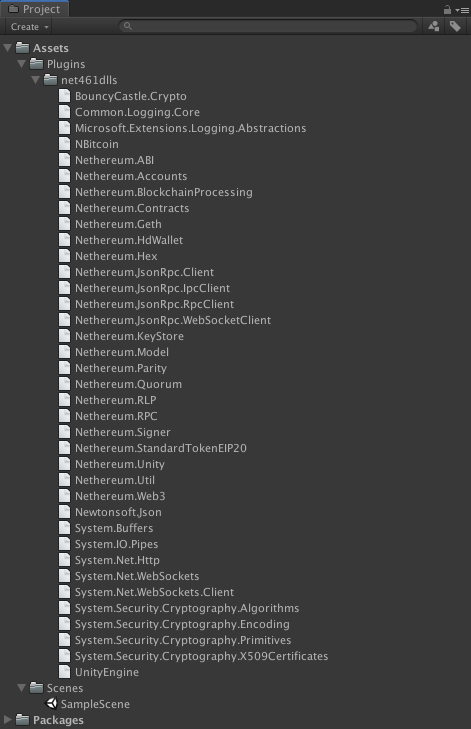
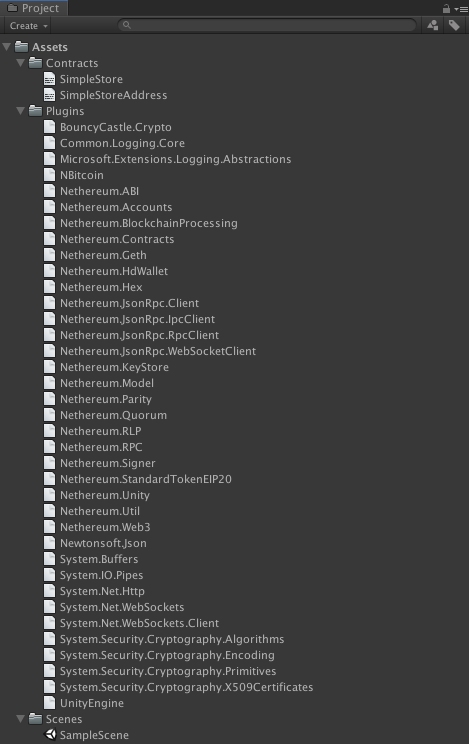
update post

Changed region(s): [[0.0, 0.0, 0.6866, 0.9959], [0.2687, 0.0, 0.8955, 0.0302], [0.8955, 0.0, 1.0, 0.0604]]

diff --git a/_drafts/2020-01-07-dapp-with-unity.md b/_drafts/2020-01-07-dapp-with-unity.md
@@ -103,7 +103,6 @@ tại `truffle-config.js` ta sẽ config tất cả những thông tin về chai
 
 ```js
 module.exports = {
-  contracts_build_directory: '../game/Assets/Contracts',
   networks: {
     development: {
       host: '127.0.0.1',
@@ -113,8 +112,6 @@ module.exports = {
   }
 };
 ```
-
-Ta sẽ build contracts vào luôn một thư mục bên trong thư mục game, để chút nữa ta có thể sử dụng nó trong Cocos.
 
 Với chain, để đơn giản nhất ta sẽ sử dụng một local chain, chạy bởi `ganache-cli`.
 
@@ -255,31 +252,72 @@ Summary
 > Final cost:          0.00860274 ETH
 ```
 
+### Extract contract ABI
+
+Việc tạo script đọc và xử lý file `json` với Csharp khá dài nên mình sẽ viết một script js tách luôn ABI và địa chỉ của contract ra một file riêng, để chút nữa trong game ta không phải viết thêm xử lý chỉ việc kéo thả vào trong Unity mà thôi. Easy!
+
+Tạo thư mục `scripts`, bên trong ta tạo một file `extract_abi.js` với nội dung sau:
+
+```js
+const fs = require('fs');
+const path = require('path');
+const contracts = path.resolve(__dirname, '../build/contracts/');
+const unityAbis = path.resolve(__dirname, '../../game/Assets/Contracts/');
+
+module.exports = function() {
+  let builtContracts = fs.readdirSync(contracts);
+  builtContracts.forEach(contract => {
+    if (contract === 'Migrations.json' || contract === 'SafeMath.json') return;
+    console.log('extracting contract ', contract);
+    const name = contract.split('.')[0];
+    let json = JSON.parse(fs.readFileSync(path.resolve(contracts, contract)));
+    let { abi, networks } = json;
+    if (!Object.keys(networks).length) return;
+    fs.writeFileSync(path.resolve(unityAbis, contract), JSON.stringify(json.abi));
+    fs.writeFileSync(path.resolve(unityAbis, name + 'Address.txt'), networks['123456789'].address);
+  });
+};
+```
+
+Bên game, trong thư mục `game/Assets` ta sẽ tạo một thư mục `Contracts`, sau đó quay lại bên contract và chạy lệnh:
+
+```sh
+truffle exec scripts/extract_abi.js
+```
+
+Khi này nó sẽ sinh ra cho chúng ta thư mục Contracts 2 file: `SimpleStore` chứa contract ABI và `SimpleStoreAddress` chứa contract address.
+
+![built-contract]({{ site.url }}/assets/images/dapp-with-unity/built-contract.png)
+
 OK vậy là xong phần contract.
 
 ## Game Development
 
 Hãy mở Unity và chọn project `game` mà chúng ta vừa tạo.
 
+### Project Settings
+
+Vì ta làm ứng dụng mobile, nên việc đầu tiên là ta sẽ switch project sang `Android`.
+
 Chọn `File/Build Settings...`, tại cửa sổ build setting, ta chọn `Android` và nhấn `Switch Platform`.
 
 ![android-switch-platform]({{ site.url }}/assets/images/dapp-with-unity/android-switch-platform.png)
 
-### Project Settings
+Tiếp tục chọn `Player Settings...`, đảm bảo `Scripting Runtime Version` là `.Net 4.x Equivalent`, và `Api Compatibility Level` là `.Net 4.x`
 
-Vì ta làm ứng dụng mobile, nên việc đầu tiên là ta sẽ switch project sang `Android`.
+![scripting-backend]({{ site.url }}/assets/images/dapp-with-unity/scripting-backend.png)
 
 ### Scene
 
 Mở đầu chúng ta sẽ có một scene `SampleScene` chưa có gì ngoài `MainCamera` và `Event System` cả.
 
-Ta lần lượt sẽ tạo các `Text` cho Value, Address, Balance, một `InputField` cho giá trị nhập vào, và một `Button` để set giá trị cho value.
+Ta lần lượt sẽ tạo các `Text` cho Value, Address, Balance, một `InputField` cho giá trị nhập vào, và một `Button` để set giá trị cho value. Thêm chút màu sắc nếu cần.
 
-Scene sẽ trở thành như sau:
+Scene sẽ trông như sau:
 
 ![scene-edited]({{ site.url }}/assets/images/dapp-with-unity/scene-edited.png)
 
-### Script
+### Nethereum Plugin
 
 Để kết nối với blockchain từ Unity, ta sẽ sử dụng một thư viện của Csharp có tên gọi [Nethereum](https://github.com/Nethereum/Nethereum).
 
@@ -287,10 +325,227 @@ Scene sẽ trở thành như sau:
 
 Download Nethereum tại đây: [https://github.com/Nethereum/Nethereum/releases](https://github.com/Nethereum/Nethereum/releases)
 
+Đọc thêm Documentations tại đây: [https://nethereum.readthedocs.io/en/latest/unity3d-introduction/](https://nethereum.readthedocs.io/en/latest/unity3d-introduction/)
+
 Nethereum có 2 phiên bản: Net461 sử dụng cho các hệ thống .Net 4x trở lên, và Net351 sử dụng cho các hệ thống .Net thấp hơn.
 
 Các phiên bản Unity trước đây sử dụng .Net3.5, nhưng gần đây đã nâng cấp lên sử dụng cả 4.x và 3.5, và trong tương lai sẽ bỏ hoàn toàn phiên bản 3.5, nên chúng ta luôn nên sử dụng các phiên bản 4.x trở lên. Trong bài này cũng vậy, chúng ta sẽ sử dụng phiên bản `Net461`.
 
-Ta sẽ tạo thư mục `Plugins` trong thư mục `game/Assets` và giải nén tại đây
+Ta sẽ tạo thư mục `Plugins` trong thư mục `game/Assets` và giải nén thư viện đã download về tại đây.
 
 ![nethereum-plugins]({{ site.url }}/assets/images/dapp-with-unity/nethereum-plugins.png)
+
+_Note: Nếu gặp các lỗi liên quan đến `Library/PackageCache/` thì hãy mạnh dạn tắt đi khởi động lại Unity_.
+
+### Scripts
+
+Tạo thư mục `Scripts`, bên trong tạo một script `SimpleStore.cs` với nội dung như sau:
+
+```csharp
+using System;
+using System.Numerics;
+using System.Collections;
+using System.Collections.Generic;
+using System.Threading.Tasks;
+
+using UnityEngine;
+using UnityEngine.UI;
+
+using Nethereum.Web3;
+using Nethereum.Web3.Accounts;
+using Nethereum.Contracts;
+using Nethereum.ABI.FunctionEncoding.Attributes;
+using Nethereum.Signer;
+using Nethereum.Hex.HexTypes;
+
+public class SimpleStore : MonoBehaviour
+{
+
+    [Header("Deployed contract")]
+    public TextAsset contractABI;
+    public TextAsset contractAddress;
+
+    public Text currentValueText;
+    public Text addressText;
+    public Text balanceText;
+    public InputField inputValue;
+
+    private HexBigInteger ethBalance;
+    private Web3 web3;
+    private Account account;
+    private string privateKey;
+    private string from;
+    private Contract contract;
+
+    private HexBigInteger gas = new HexBigInteger(900000);
+
+    private Function getFunction;
+    private Function setFunction;
+
+    void Start()
+    {
+        AccountSetup();
+    }
+
+    public void AccountSetup()
+    {
+        var url = "http://localhost:8545";
[1 lines of base64/hex data omitted]
+        account = new Account(privateKey);
+        from = account.Address;
+        web3 = new Web3(account, url);
+        StartCoroutine(StatusInterval());
+        GetContract();
+    }
+
+    IEnumerator StatusInterval()
+    {
+        while (true)
+        {
+            UpdateStatus();
+            yield return new WaitForSeconds(1f);
+        }
+    }
+
+    public async Task UpdateStatus()
+    {
+        uint newValFromContract = await GetValue();
+        currentValueText.text = "" + newValFromContract;
+        var newBalance = await web3.Eth.GetBalance.SendRequestAsync(from);
+        ethBalance = newBalance;
+        decimal ethBalanceVal = Web3.Convert.FromWei(ethBalance.Value);
+        addressText.text = from;
+        balanceText.text = string.Format("{0:0.00} ETH", ethBalanceVal);
+    }
+
+    public void OnSetValue()
+    {
+        var newValue = inputValue.text;
+        try
+        {
+            int intValue = Int32.Parse(newValue);
+            SetValue(intValue);
+        }
+        catch (FormatException)
+        {
+            Debug.LogError("Unable to parse input!");
+        }
+    }
+
+    void GetContract()
+    {
+        string abi = contractABI.ToString();
+        string address = contractAddress.ToString();
+        contract = web3.Eth.GetContract(abi, address);
+
+        getFunction = contract.GetFunction("get");
+        setFunction = contract.GetFunction("set");
+    }
+
+    public async Task<uint> GetValue()
+    {
+        var value = await getFunction.CallAsync<uint>();
+        return value;
+    }
+
+    public async Task<string> SetValue(int value)
+    {
+        var receipt = await setFunction.SendTransactionAndWaitForReceiptAsync(from, gas, new HexBigInteger(0), null, value);
+        Debug.LogFormat("tx: {0}", receipt.TransactionHash);
+        return receipt.TransactionHash;
+    }
+}
+```
+
+#### Giải thích
+
+- đầu tiên ta sẽ khai báo các Text, InputField và Button mà ta đã tạo ra ở bên trên, ở đây đáng chú ý là ta sẽ có 2 biến `TextAsset`, dùng để lưu trữ chính ABI và contract address mà ta đã tạo ra từ trước.
+
+```csharp
+public TextAsset contractABI;
+public TextAsset contractAddress;
+
+public Text currentValueText;
+public Text addressText;
+public Text balanceText;
+public InputField inputValue;
+```
+
+- ở bài viết này, chúng ta sẽ sử dụng trực tiếp account đầu tiên sinh ra bởi `ganache-cli`. Trên thực tế, chúng ta nên làm thêm chức năng sinh private-key mới cho người dùng, hoặc cho phép người dùng nhập vào mnemonic hay private để import account đã có của họ.
+
+```csharp
+public void AccountSetup()
+{
+    var url = "http://localhost:8545";
[1 lines of base64/hex data omitted]
+    account = new Account(privateKey);
+    from = account.Address;
+    web3 = new Web3(account, url);
+    StartCoroutine(StatusInterval());
+    GetContract();
+}
+```
+
+- sau đó cứ mỗi giây, chúng ta lại update lại trạng thái của ứng dụng, như `value` hay `balance` của account.
+
+```csharp
+public async Task UpdateStatus()
+{
+    uint newValFromContract = await GetValue();
+    currentValueText.text = "" + newValFromContract;
+    var newBalance = await web3.Eth.GetBalance.SendRequestAsync(from);
+    ethBalance = newBalance;
+    decimal ethBalanceVal = Web3.Convert.FromWei(ethBalance.Value);
+    addressText.text = from;
+    balanceText.text = string.Format("{0:0.00} ETH", ethBalanceVal);
+}
+```
+
+- phần định nghĩa contract, ta sẽ sử dụng ABI và contract address để tạo ra contract instance, đồng thời implement các hàm `GetValue` và `SetValue` tương ứng với các hàm `get` và `set` trong `SimpleStore.sol` contract
+
+```csharp
+void GetContract()
+{
+    string abi = contractABI.ToString();
+    string address = contractAddress.ToString();
+    contract = web3.Eth.GetContract(abi, address);
+
+    getFunction = contract.GetFunction("get");
+    setFunction = contract.GetFunction("set");
+}
+
+public async Task<uint> GetValue()
+{
+    var value = await getFunction.CallAsync<uint>();
+    return value;
+}
+
+public async Task<string> SetValue(int value)
+{
+    var receipt = await setFunction.SendTransactionAndWaitForReceiptAsync(from, gas, new HexBigInteger(0), null, value);
+    Debug.LogFormat("tx: {0}", receipt.TransactionHash);
+    return receipt.TransactionHash;
+}
+```
+
+- khi ta bấm `Set` button, thì đầu tiên ta sẽ check xem giá trị trong input field có phải dạng int hay không, sau đó mới gọi hàm từ smart contract.
+
+```csharp
+public void OnSetValue()
+{
+    var newValue = inputValue.text;
+    try
+    {
+        int intValue = Int32.Parse(newValue);
+        SetValue(intValue);
+    }
+    catch (FormatException)
+    {
+        Debug.LogError("Unable to parse input!");
+    }
+}
+```
+
+ok script đã sẵn sàng, quay trở lại scene, add script `SimpleStore` vào object `Canvas`, sau đó kéo các biến cần thiết từ scene vào trong script `SimpleStore` component:
+
+![simple-store-script]({{ site.url }}/assets/images/dapp-with-unity/simple-store-script.png)
